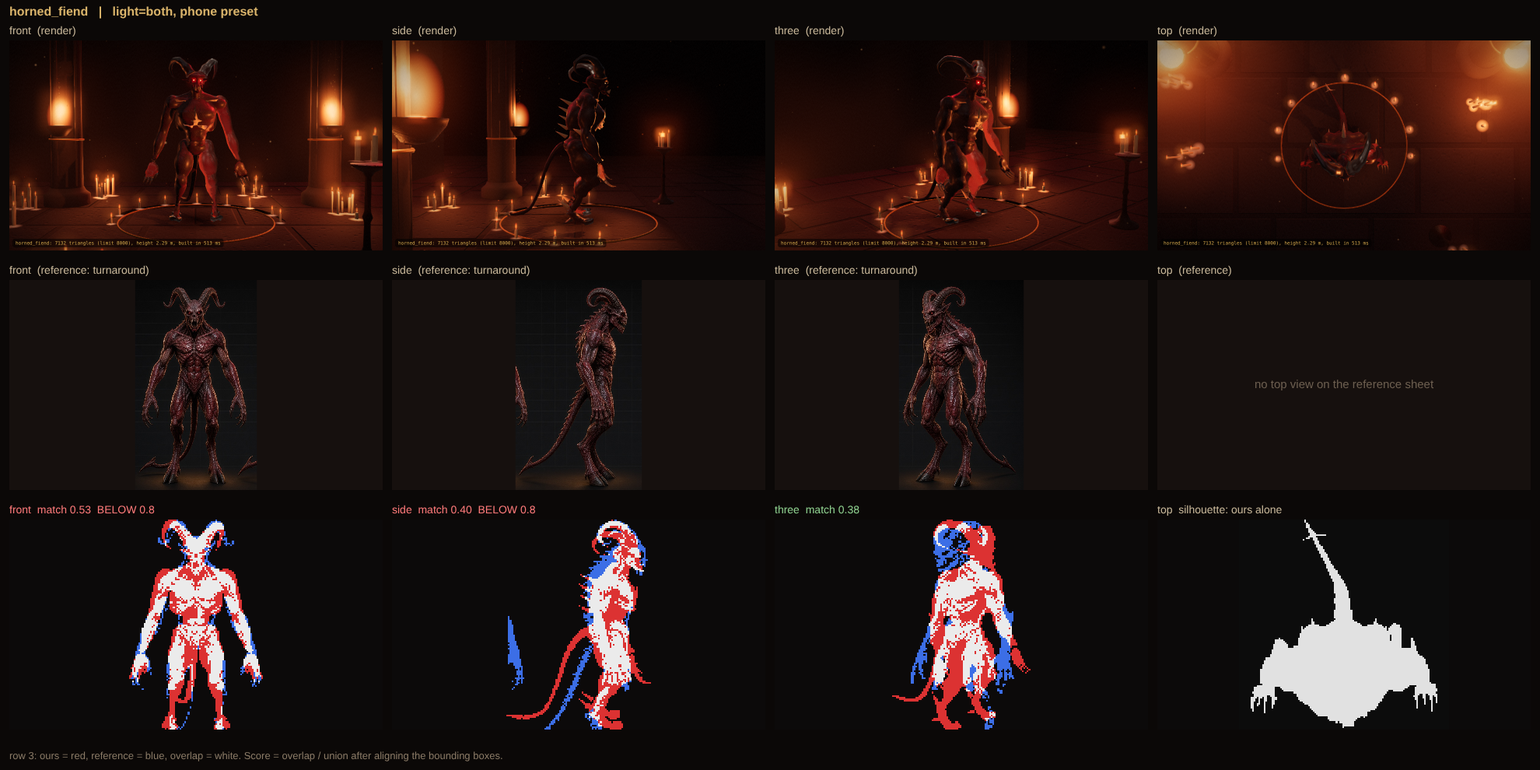
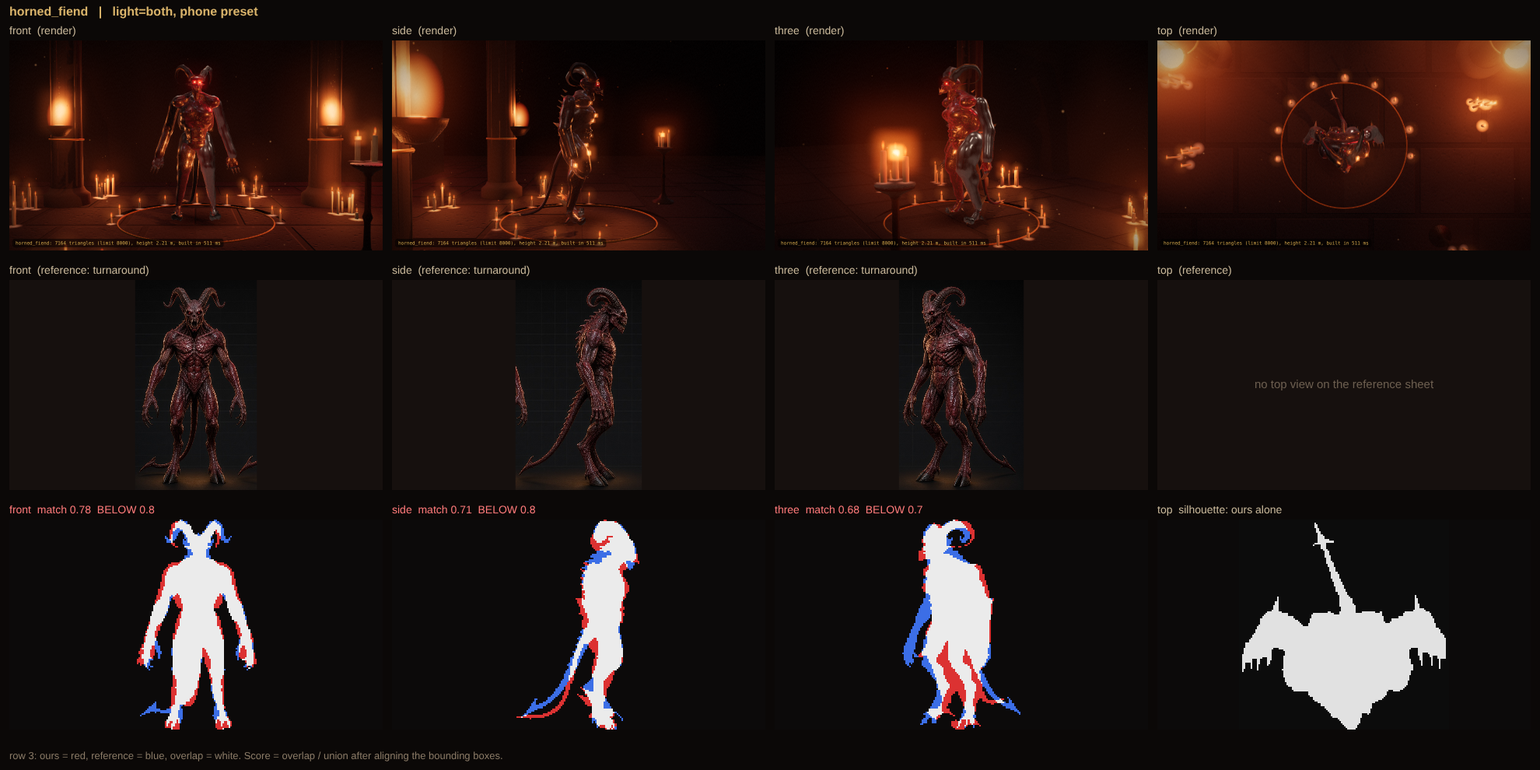
Step 6b checkpoint (NOT done): solid reference outline, matched 3/4 camera, data-driven limbs and torso, sinew skin, glowing eyes, rounds log
Real lab scores front 0.776 / side 0.715 / three-quarter 0.683, below the 0.80 / 0.80 / 0.70 gate.

Claude-Session: https://claude.ai/code/session_0198aHxqDLywcfDn4rkArSb7

diff --git a/src/kit/parts_body.js b/src/kit/parts_body.js
@@ -8,30 +8,33 @@ const tag = (f, role) => withRole(f, role);
 
 // ---------------------------------------------------------------- torso
 // Origin: centre of the pelvis. The spine runs up +Y to the neck (y 0.86), the chest faces -Z, shoulders at y 0.7, x +-0.34.
-export function torso() {
-  const pelvis = ellipsoid([0, 0.02, 0.02], [0.2, 0.13, 0.15]);
-  const abdomen = ellipsoid([0, 0.25, 0.0], [0.15, 0.2, 0.12]);
-  const ribcage = ellipsoid([0, 0.53, 0.0], [0.27, 0.27, 0.19]);
-  const pecs = mirrorX(ellipsoid([0.12, 0.57, -0.1], [0.14, 0.1, 0.1]));
-  const lats = mirrorX(ellipsoid([0.2, 0.42, 0.1], [0.1, 0.19, 0.08]));
-  const traps = mirrorX(capsule([0.05, 0.84, 0.03], [0.28, 0.72, 0.03], 0.055, 0.08));
-  const shoulders = mirrorX(sphere([0.33, 0.7, 0.0], 0.1));
-  const abs = mirrorX(smoothUnion(0.03, ...[0, 1, 2].map((i) => ellipsoid([0.058, 0.12 + i * 0.085, -0.105], [0.052, 0.036, 0.04]))));
+// Step 6b options (all 1 = the Step 5 torso): widths pw / aw / cw / sw (pelvis, abdomen, ribcage, shoulders) and depths pd / ad / cd (front to back),
+// rise = lifts the shoulder line, so a creature's data can slim the waist or deepen the chest without a new part.
+export function torso({ pw = 1, aw = 1, cw = 1, sw = 1, pd = 1, ad = 1, cd = 1, rise = 0 } = {}) {
+  const pelvis = ellipsoid([0, 0.02, 0.02], [0.2 * pw, 0.13, 0.15 * pd]);
+  const abdomen = ellipsoid([0, 0.25, 0.0], [0.15 * aw, 0.2, 0.12 * ad]);
+  const ribcage = ellipsoid([0, 0.53, 0.0], [0.27 * cw, 0.27, 0.19 * cd]);
+  const pecs = mirrorX(ellipsoid([0.12 * cw, 0.57, -0.1 * cd], [0.14, 0.1, 0.1]));
+  const lats = mirrorX(ellipsoid([0.2 * cw, 0.42, 0.1 * cd], [0.1, 0.19, 0.08]));
+  const traps = mirrorX(capsule([0.05, 0.84 + rise, 0.03], [0.28 * sw, 0.72 + rise, 0.03], 0.055, 0.08));
+  const shoulders = mirrorX(sphere([0.33 * sw, 0.7 + rise, 0.0], 0.1));
+  const abs = mirrorX(smoothUnion(0.03, ...[0, 1, 2].map((i) => ellipsoid([0.058, 0.12 + i * 0.085, -0.105 * ad], [0.052, 0.036, 0.04]))));
   const neck = capsule([0, 0.74, 0.02], [0, 0.9, 0.0], 0.085, 0.07);
   const skin = smoothUnion(0.06, pelvis, abdomen, ribcage, pecs, lats, traps, shoulders, neck);
-  const fleshed = smoothUnion(0.03, skin, abs);
-  // bone shows through: collar bones, breastbone, three ribs a side, spine spikes down the back
-  const collar = mirrorX(capsule([0.03, 0.8, -0.14], [0.3, 0.76, -0.04], 0.022, 0.026));
-  const sternum = capsule([0, 0.44, -0.19], [0, 0.78, -0.165], 0.026, 0.022);
-  const ribs = mirrorX(union(...[0, 1, 2].map((i) => capsule([0.05, 0.4 + i * 0.075, -0.19], [0.23, 0.37 + i * 0.075, -0.09], 0.022, 0.016))));
-  const bone = union(collar, sternum, ribs);
+  // Step 6b: no bone sticking out of the chest. Ribs, collar bones and the breastbone are only shallow ridges under the skin (the sheet has no chest spikes);
+  // the only sharp bone is the row of small spine spikes down the back.
+  const ribs = mirrorX(union(...[0, 1, 2, 3].map((i) => capsule([0.05, 0.38 + i * 0.07, -0.185 * cd], [0.24 * cw, 0.33 + i * 0.07, -0.07 * cd], 0.016, 0.011))));
+  const collar = mirrorX(capsule([0.03, 0.8 + rise, -0.14 * cd], [0.3 * sw, 0.76 + rise, -0.04], 0.016, 0.02));
+  const sternum = capsule([0, 0.44, -0.19 * cd], [0, 0.78 + rise, -0.165 * cd], 0.016, 0.014);
+  const fleshed = smoothUnion(0.03, smoothUnion(0.022, skin, ribs, collar, sternum), abs);
+  const bone = union(capsule([0, 0.0, 0.0], [0, 0.001, 0.0], 0.001));      // (nothing: the grid below only keeps the part's role list stable)
+  const SPIKES = 9;
   return {
-    name: 'torso', budget: 1520, facing: { role: 'bone' },
-    meshes: [0, 1, 2, 3, 4].map((i) => () => spike([0, 0.14 + i * 0.13, 0.14 + (i > 2 ? 0.02 : 0)], [0, 0.2 + i * 0.13, 0.27 + (i > 2 ? 0.02 : 0)], 0.034, 'bone', 5)),
-    notes: 'pelvis at the origin, neck at y 0.9, chest and ribs face -Z, spine spikes down the back (+Z)',
+    name: 'torso', budget: 1520, facing: { bbox: true },
+    meshes: Array.from({ length: SPIKES }, (_, i) => () => { const y = 0.1 + i * 0.1, z = 0.13 + (y > 0.55 ? 0.03 : 0.0) + 0.04 * Math.sin(i / SPIKES * 3.1); return spike([0, y, z], [0, y + 0.045, z + 0.085 - i * 0.004], 0.02, 'bone', 5); }),
+    notes: 'pelvis at the origin, neck at y 0.9, chest and ribs face -Z (shallow ridges only), nine small spine spikes down the back (+Z)',
     grids: [
-      { name: 'flesh', share: 0.75, sdf: fleshed, shapes: [tag(fleshed, 'skin')], bounds: { min: [-0.5, -0.2, -0.3], max: [0.5, 1.0, 0.28] } },
-      { name: 'bone', share: 0.25, sdf: bone, shapes: [tag(bone, 'bone')], bounds: { min: [-0.36, 0.3, -0.28], max: [0.36, 0.84, 0.02] } },
+      { name: 'flesh', share: 1, sdf: fleshed, shapes: [tag(fleshed, 'skin')], bounds: { min: [-0.5, -0.2, -0.3], max: [0.5, 1.0, 0.28] } },
     ],
   };
 }
@@ -55,7 +58,7 @@ export function head() {
   const sockets = mirrorX(ellipsoid([0.05, 0.19, -0.084], [0.034, 0.03, 0.042]));
   const nostrils = mirrorX(ellipsoid([0.011, 0.122, -0.108], [0.0055, 0.022, 0.012]));                  // two thin vertical slits
   const carved = smoothSubtract(0.012, smoothSubtract(0.016, smoothSubtract(0.02, smoothUnion(0.03, skull, knobs), sockets), hollows), nostrils);
-  const eyes = mirrorX(rotate(ellipsoid([0.05, 0.19, -0.074], [0.017, 0.0125, 0.012]), [0, 0, 0.32], [0.05, 0.19, -0.074]));   // small, red, set deep
+  const eyes = mirrorX(rotate(ellipsoid([0.05, 0.19, -0.082], [0.024, 0.016, 0.014]), [0, 0, 0.32], [0.05, 0.19, -0.082]));   // small, red, set deep
   const earBase = (sg) => [0.1 * sg, 0.17, 0.05];
   return {
     name: 'head', budget: 1050, facing: { role: 'eye' },
@@ -101,14 +104,16 @@ export function jaw() {
 // kind 'arm': origin at the shoulder, hangs down (-Y), the elbow points back and the forearm comes forward (-Z).
 // kind 'leg': origin at the hip; digitigrade (walks on its toes): the knee points forward, the shin slopes back to a high ankle.
 // Sinew and muscle: separate bulges blended with a tight crease, so the limb is lumps and cords, not a tube.
-export function limb({ kind = 'arm' } = {}) {
+// Step 6b options (all optional, the defaults are the Step 5 limb): joints = [shoulder/hip, elbow/knee, wrist/ankle] in metres, radii = widths at those
+// three joints, bulge = how much the muscle lumps stand proud (1 = Step 5, 0 = lean sinew only, so a creature's data can slim a limb without a new part).
+export function limb({ kind = 'arm', joints, radii, bulge = 1 } = {}) {
   const arm = kind === 'arm';
-  const J = arm ? [[0, 0, 0], [0.01, -0.36, 0.05], [0, -0.66, -0.12]] : [[0, 0, 0], [0, -0.45, -0.17], [0, -0.86, 0.08]];
-  const R = arm ? [0.085, 0.062, 0.042] : [0.125, 0.078, 0.04];
+  const J = joints || (arm ? [[0, 0, 0], [0.01, -0.36, 0.05], [0, -0.66, -0.12]] : [[0, 0, 0], [0, -0.45, -0.17], [0, -0.86, 0.08]]);
+  const R = radii || (arm ? [0.085, 0.062, 0.042] : [0.125, 0.078, 0.04]);
   const [S, E, W] = J;
   const tilt = (a, b) => Math.atan2(-(b[2] - a[2]), -(b[1] - a[1]));                                   // how far a segment leans forward
   const mid = (a, b, t) => add3(a, mul3(sub3(b, a), t));
-  const blob = (a, b, t, off, rad) => { const c = add3(mid(a, b, t), off); return rotate(ellipsoid(c, [rad[0] * 1.25, rad[1], rad[2] * 1.25]), [tilt(a, b), 0, 0], c); };   // bulges stand proud of the bone, so the limb reads as muscle
+  const blob = (a, b, t, off, rad) => { const c = add3(mid(a, b, t), mul3(off, bulge)); return rotate(ellipsoid(c, [rad[0] * (1 + 0.25 * bulge), rad[1], rad[2] * (1 + 0.25 * bulge)].map((v, i) => i === 1 ? v : v * (0.55 + 0.45 * bulge))), [tilt(a, b), 0, 0], c); };   // bulges stand proud of the bone, so the limb reads as muscle
   const parts = [capsule(S, E, R[0], R[1]), capsule(E, W, R[1] * 0.9, R[2]), sphere(E, R[1] * 1.05)];
   if (arm) parts.push(sphere([0, -0.0, 0], 0.098), blob(S, E, 0.42, [0, 0, -0.04], [0.068, 0.12, 0.064]), blob(S, E, 0.45, [0, 0, 0.055], [0.062, 0.12, 0.056]), blob(E, W, 0.3, [0, 0, -0.03], [0.062, 0.12, 0.056]), blob(E, W, 0.35, [0.0, 0, 0.04], [0.05, 0.12, 0.046]));
   else parts.push(sphere([0, 0.0, 0.0], 0.13), blob(S, E, 0.45, [0, 0, -0.05], [0.115, 0.2, 0.1]), blob(S, E, 0.5, [0, 0, 0.06], [0.09, 0.19, 0.08]), blob(E, W, 0.22, [0, 0, 0.06], [0.075, 0.14, 0.075]), sphere(add3(E, [0, 0, -0.045]), 0.08));

diff --git a/src/kit/creatures/horned_fiend.js b/src/kit/creatures/horned_fiend.js
@@ -3,27 +3,22 @@
 // Every instance is also a rig node (the lab idle moves head, jaw, arms and tail through these ids).
 export const hornedFiend = {
   name: 'horned_fiend',
-  budget: 8000,                 // triangles for the whole creature (CLAUDE.md); the instance budgets below add up to less
-  headHeight: 0.27,             // HH, from proportions.md
+  budget: 8000,
+  headHeight: 0.27,
   instances: [
-    // body: lean and hunched, narrow waist, shoulders about 0.6 m wide
-    { id: 'body', part: 'torso', at: [0, 1.03, 0], rot: [-0.2, 0, 0], scale: [1.0, 0.9, 1.4], budget: 2000 },
-    // head pushed forward on a thin neck, tilted a little down; jaw hangs open a little; ram horns from above the brow
-    { id: 'head', on: 'body', part: 'head', local: [0, 0.88, -0.1], rot: [0.1, 0, 0], scale: [0.88, 0.96, 0.8], budget: 1200 },
-    { id: 'jaw', on: 'head', part: 'jaw', local: [0, 0.095, -0.02], rot: [-0.2, 0, 0], budget: 320 },
-    { id: 'hornR', on: 'head', part: 'horn', local: [0.082, 0.278, 0.0], rot: [0, 0, -0.1], scale: 1.2, budget: 340 },
-    { id: 'hornL', on: 'head', part: 'horn', local: [-0.082, 0.278, 0.0], rot: [0, 0, 0.1], scale: 1.2, mirror: true, budget: 340 },
-    // arms hang from the shoulders, long: the claws reach the knees
-    { id: 'armR', on: 'body', pinned: true, part: 'limb', local: [0.34, 0.7, 0], rot: [0, 0, 0.27], scale: [1.0, 1.25, 1.0], budget: 460 },
-    { id: 'armL', on: 'body', pinned: true, part: 'limb', local: [-0.34, 0.7, 0], rot: [0, 0, -0.27], scale: [1.0, 1.25, 1.0], mirror: true, budget: 460 },
-    { id: 'handR', on: 'armR', part: 'hand', local: [0, -0.66, -0.12], scale: [1.18, 0.9, 1.18], mirror: true, budget: 470 },
-    { id: 'handL', on: 'armL', part: 'hand', local: [0, -0.66, -0.12], scale: [1.18, 0.9, 1.18], mirror: true, budget: 470 },
-    // legs: digitigrade, hip at 1.03 m so the hooves stand on the floor
-    { id: 'legR', on: 'body', pinned: true, part: 'leg', local: [0.14, 0, 0.02], rot: [0, 0, 0.15], scale: [0.95, 1, 1.15], budget: 500 },
-    { id: 'legL', on: 'body', pinned: true, part: 'leg', local: [-0.14, 0, 0.02], rot: [0, 0, -0.15], scale: [0.95, 1, 1.15], mirror: true, budget: 500 },
-    { id: 'footR', on: 'legR', part: 'hoofFoot', local: [0, -0.86, 0.08], scale: [1.45, 1.05, 1.45], budget: 220 },
-    { id: 'footL', on: 'legL', part: 'hoofFoot', local: [0, -0.86, 0.08], scale: [1.45, 1.05, 1.45], budget: 220 },
-    // tail: from the base of the spine to the floor, trailing back
-    { id: 'tail', on: 'body', pinned: true, part: 'tail', local: [0, 0.02, 0.15], scale: [1, 1, 0.6], budget: 320 },
+    { id: "body", part: "torso", at: [0, 1.071, 0.045], rot: [-0.153, 0, 0], scale: [0.862, 0.81, 1.315], budget: 2000, opts: {pw: 1.179, aw: 1.158, cw: 1.029, sw: 0.887, pd: 1, ad: 1.163, cd: 0.741, rise: 0.061} },
+    { id: "head", on: "body", part: "head", local: [-0.006, 0.91, -0.125], rot: [0.223, 0, 0], scale: [0.845, 0.96, 0.753], budget: 1200 },
+    { id: "jaw", on: "head", part: "jaw", local: [0, 0.095, -0.02], rot: [-0.2, 0, 0], budget: 320 },
+    { id: "hornR", on: "head", part: "horn", local: [0.088, 0.268, -0.024], rot: [0.058, 0.039, -0.1], scale: [1.041, 1.2, 1.155], budget: 340 },
+    { id: "hornL", on: "head", part: "horn", local: [-0.088, 0.268, -0.024], rot: [0.058, -0.039, 0.1], scale: [1.041, 1.2, 1.155], mirror: true, budget: 340 },
+    { id: "armR", on: "body", pinned: true, part: "limb", local: [0.356, 0.684, 0.129], rot: [-0.081, 0, 0.27], scale: [0.867, 1.14, 0.952], budget: 460, opts: {kind: "arm", joints: [[0, 0, 0], [0, -0.319, 0.041], [0.015, -0.636, -0.09]], radii: [0.081, 0.085, 0.08], bulge: 0.777} },
+    { id: "armL", on: "body", pinned: true, part: "limb", local: [-0.356, 0.684, 0.129], rot: [-0.081, 0, -0.27], scale: [0.867, 1.14, 0.952], mirror: true, budget: 460, opts: {kind: "arm", joints: [[0, 0, 0], [0, -0.319, 0.041], [0.015, -0.636, -0.09]], radii: [0.081, 0.085, 0.08], bulge: 0.777} },
+    { id: "handR", on: "armR", part: "hand", local: [0.015, -0.636, -0.09], scale: [1.365, 0.917, 1.188], mirror: true, budget: 470 },
+    { id: "handL", on: "armL", part: "hand", local: [-0.015, -0.636, -0.09], scale: [1.365, 0.917, 1.188], mirror: true, budget: 470 },
+    { id: "legR", on: "body", pinned: true, part: "leg", local: [0.139, 0.058, 0.07], rot: [0.018, 0, 0.14], scale: [0.939, 1.123, 1.137], budget: 500, opts: {kind: "leg", joints: [[0, 0, 0], [-0.006, -0.331, -0.14], [0, -0.83, 0.029]], radii: [0.117, 0.106, 0.057], bulge: 0.971} },
+    { id: "legL", on: "body", pinned: true, part: "leg", local: [-0.139, 0.058, 0.07], rot: [0.018, 0, -0.14], scale: [0.939, 1.123, 1.137], mirror: true, budget: 500, opts: {kind: "leg", joints: [[0, 0, 0], [-0.006, -0.331, -0.14], [0, -0.83, 0.029]], radii: [0.117, 0.106, 0.057], bulge: 0.971} },
+    { id: "footR", on: "legR", part: "hoofFoot", local: [0, -0.83, 0.029], scale: [1.384, 1.107, 1.061], budget: 220 },
+    { id: "footL", on: "legL", part: "hoofFoot", local: [0, -0.83, 0.029], scale: [1.384, 1.107, 1.061], budget: 220 },
+    { id: "tail", on: "body", pinned: true, part: "tail", local: [0, 0.019, 0.04], scale: [0.923, 0.925, 0.662], budget: 320, rot: [0.131, -0.083, 0] },
   ],
 };

diff --git a/src/look/textures.js b/src/look/textures.js
@@ -32,14 +32,34 @@ export function flagstones(size = 512, seed = 7) {
 }
 
 // leathery demon skin: mottled colour and a pore/vein bump
-export function demonSkin(size = 256, seed = 3) {
+export function demonSkin(size = 512, seed = 3) {
+  // Step 6b: lean, wet, sinewy skin like the turnaround: small leathery pebbles, long tendon strands and creases, redder in the sinew, near-black in the cracks.
   const rand = rng(seed), [c, g] = canvas(size), [b, h] = canvas(size);
-  g.fillStyle = '#44120f'; g.fillRect(0, 0, size, size); h.fillStyle = '#808080'; h.fillRect(0, 0, size, size);
-  for (let i = 0; i < 260; i++) { const x = rand() * size, y = rand() * size, r = 6 + rand() * 26; const gr = g.createRadialGradient(x, y, 0, x, y, r); const d = rand() < 0.5; gr.addColorStop(0, d ? 'rgba(30,6,6,0.35)' : 'rgba(120,40,30,0.25)'); gr.addColorStop(1, 'rgba(0,0,0,0)'); g.fillStyle = gr; g.fillRect(x - r, y - r, r * 2, r * 2); }
-  for (let i = 0; i < 26; i++) { const col = `rgba(${20 + rand() * 30},4,6,0.5)`; let x = rand() * size, y = rand() * size; for (const t of [g, h]) { t.strokeStyle = t === g ? col : 'rgba(255,255,255,0.5)'; t.lineWidth = 1 + rand() * 1.5; t.beginPath(); t.moveTo(x, y); } for (let k = 0; k < 8; k++) { const nx = x + (rand() - 0.5) * 40, ny = y + (rand() - 0.5) * 40; for (const t of [g, h]) t.lineTo(nx, ny); x = nx; y = ny; } for (const t of [g, h]) t.stroke(); }
-  speckle(h, size, 3000, 1.2, 0.5, rand, false);
+  g.fillStyle = '#3a0f0d'; g.fillRect(0, 0, size, size); h.fillStyle = '#707070'; h.fillRect(0, 0, size, size);
+  for (let i = 0; i < 120; i++) { const x = rand() * size, y = rand() * size, r = 14 + rand() * 50, gr = g.createRadialGradient(x, y, 0, x, y, r); gr.addColorStop(0, rand() < 0.5 ? 'rgba(14,3,3,0.4)' : 'rgba(130,34,26,0.3)'); gr.addColorStop(1, 'rgba(0,0,0,0)'); g.fillStyle = gr; g.fillRect(x - r, y - r, r * 2, r * 2); }   // blotchy light and dark patches
+  const wrapDraw = (fn) => { for (const ox of [-size, 0, size]) for (const oy of [-size, 0, size]) fn(ox, oy); };         // tile edges match, so box-mapped skin has no seams
+  // pebbles: a dome with a dark rim, in both the colour and the bump map
+  for (let i = 0; i < 2600; i++) {
+    const x = rand() * size, y = rand() * size, r = 3 + rand() * 5.5, sq = 0.65 + rand() * 0.5, rot = rand() * 3.14;
+    wrapDraw((ox, oy) => { if (x + ox < -r || y + oy < -r || x + ox > size + r || y + oy > size + r) return;
+      const gb = h.createRadialGradient(x + ox, y + oy, 0, x + ox, y + oy, r); gb.addColorStop(0, 'rgba(255,255,255,0.55)'); gb.addColorStop(0.6, 'rgba(180,180,180,0.25)'); gb.addColorStop(1, 'rgba(0,0,0,0.55)');
+      h.fillStyle = gb; h.beginPath(); h.ellipse(x + ox, y + oy, r, r * sq, rot, 0, 7); h.fill();
+      g.strokeStyle = 'rgba(8,1,1,0.5)'; g.lineWidth = 1; g.beginPath(); g.ellipse(x + ox, y + oy, r, r * sq, rot, 0, 7); g.stroke(); });
+  }
+  // tendons and sinew: long, slightly wavy strands running mostly along the limb, raised and a little redder and glossier
+  for (let i = 0; i < 70; i++) {
+    let x = rand() * size, y = rand() * size; const len = 80 + rand() * 220, lw = 1.5 + rand() * 3.5, drift = (rand() - 0.5) * 0.5; const pts = [[x, y]];
+    for (let k = 0; k < 10; k++) { x += drift * 10 + (rand() - 0.5) * 8; y += len / 10; pts.push([x, y]); }
+    wrapDraw((ox, oy) => { for (const [t, col, w2] of [[h, 'rgba(255,255,255,0.45)', lw], [h, 'rgba(0,0,0,0.4)', lw + 2.2], [g, 'rgba(150,40,30,0.38)', lw]]) {
+      if (t === h && col.startsWith('rgba(0')) { t.strokeStyle = col; t.lineWidth = w2; t.beginPath(); pts.forEach(([px, py], j) => (j ? t.lineTo(px + ox + 3, py + oy) : t.moveTo(px + ox + 3, py + oy))); t.stroke(); continue; }
+      t.strokeStyle = col; t.lineWidth = w2; t.beginPath(); pts.forEach(([px, py], j) => (j ? t.lineTo(px + ox, py + oy) : t.moveTo(px + ox, py + oy))); t.stroke(); } });
+  }
+  // creases
+  for (let i = 0; i < 40; i++) { let x = rand() * size, y = rand() * size; const pts = [[x, y]]; for (let k = 0; k < 6; k++) { x += (rand() - 0.5) * 50; y += (rand() - 0.5) * 50; pts.push([x, y]); }
+    wrapDraw((ox, oy) => { for (const [t, col] of [[g, 'rgba(6,1,2,0.6)'], [h, 'rgba(0,0,0,0.6)']]) { t.strokeStyle = col; t.lineWidth = 1.2 + rand() * 1.2; t.beginPath(); pts.forEach(([px, py], j) => (j ? t.lineTo(px + ox, py + oy) : t.moveTo(px + ox, py + oy))); t.stroke(); } }); }
+  speckle(h, size, 4000, 1.0, 0.35, rand, false);
   const map = new THREE.CanvasTexture(c), bump = new THREE.CanvasTexture(b);
-  map.colorSpace = THREE.SRGBColorSpace;
+  map.colorSpace = THREE.SRGBColorSpace; map.anisotropy = 4;
   for (const t of [map, bump]) { t.wrapS = t.wrapT = THREE.RepeatWrapping; }
   return { map, bump };
 }

diff --git a/tools/lib/silhouette.js b/tools/lib/silhouette.js
@@ -87,3 +87,40 @@ export function keepLargest(m, minFrac = 0.01) {
   for (let i = 0; i < w * h; i++) if (label[i] && sizes[label[i]] >= big * minFrac) out[i] = 1;
   return { w, h, data: out };
 }
+
+// ---- Step 6b: a more faithful outline of the painted turnaround figure.
+// The first mask (maskFromFigure) only kept bright pixels, so dark legs and hooves vanished and the body was full of holes, which made every
+// score unfairly low. This one counts dark-red skin and brown hooves as figure, closes pin-holes and fills the inside, so it is a solid outline.
+
+// Solid copy of a mask: closes gaps of `r` pixels, then fills every hole that does not touch the picture edge.
+export function solidify(m, r = 2) {
+  const { w, h } = m;
+  // square grow/shrink done as a horizontal pass then a vertical pass (same result as a full square window, much faster)
+  const grow = (src, rad, v) => {
+    const tmp = new Uint8Array(w * h), o = new Uint8Array(w * h);
+    for (let y = 0; y < h; y++) for (let x = 0; x < w; x++) { let hit = 0; for (let dx = -rad; dx <= rad; dx++) { const xx = x + dx; if (xx >= 0 && xx < w && src[y * w + xx] === v) { hit = 1; break; } } tmp[y * w + x] = hit ? v : 1 - v; }
+    for (let y = 0; y < h; y++) for (let x = 0; x < w; x++) { let hit = 0; for (let dy = -rad; dy <= rad; dy++) { const yy = y + dy; if (yy >= 0 && yy < h && tmp[yy * w + x] === v) { hit = 1; break; } } o[y * w + x] = hit ? v : 1 - v; }
+    return o;
+  };
+  const dil = grow(m.data, r, 1), closed = grow(dil, r, 0);                  // dilate, then erode: a closing
+  const out = new Uint8Array(closed), seen = new Uint8Array(w * h), stack = [];
+  const push = (x, y) => { const i = y * w + x; if (!closed[i] && !seen[i]) { seen[i] = 1; stack.push(i); } };
+  for (let x = 0; x < w; x++) { push(x, 0); push(x, h - 1); } for (let y = 0; y < h; y++) { push(0, y); push(w - 1, y); }
+  while (stack.length) { const p = stack.pop(), x = p % w, y = (p - x) / w; if (x > 0) push(x - 1, y); if (x < w - 1) push(x + 1, y); if (y > 0) push(x, y - 1); if (y < h - 1) push(x, y + 1); }
+  for (let i = 0; i < w * h; i++) if (!closed[i] && !seen[i]) out[i] = 1;     // enclosed background = inside the figure
+  return { w, h, data: out };
+}
+
+// rgba of one view cut from the turnaround. `floorFrom` (0..1 of the height) is where the orange floor glow starts; `exclude` = rectangles [x0,y0,x1,y1]
+// (in this crop) that belong to a neighbouring figure and are ignored.
+export function figureMask(rgba, w, h, { floorFrom = 0.84, exclude = [] } = {}) {
+  const data = new Uint8Array(w * h);
+  for (let y = 0; y < h; y++) for (let x = 0; x < w; x++) {
+    if (exclude.some(([a, b, c, d]) => x >= a && x < c && y >= b && y < d)) continue;
+    const i = (y * w + x) * 4, r = rgba[i], g = rgba[i + 1], b = rgba[i + 2], light = (r + g + b) / 3, floor = y / h > floorFrom;
+    const skin = r >= 7 && (r - g) >= 3 && g < r * (floor ? 0.45 : 0.62) && b < r * 0.7;       // dark red skin, even when it is darker than the background grey
+    const hoof = floor && light > 38 && b / Math.max(r, 1) > 0.5;                              // brown-grey hooves against the orange glow
+    data[y * w + x] = skin || hoof || (!floor && light > 28) ? 1 : 0;
+  }
+  return solidify(keepLargest({ w, h, data }, 0.02), 2);
+}

diff --git a/src/look/materials.js b/src/look/materials.js
@@ -8,7 +8,7 @@ export function createMaterials() {
   stone.map.repeat.set(6, 6); stone.bump.repeat.set(6, 6);
   return {
     // wet skin: dark blood-red under a clearcoat, so a candle gives a small hard highlight and a warm sheen on the lumps
-    skin: new THREE.MeshPhysicalMaterial({ map: skin.map, bumpMap: skin.bump, bumpScale: 3.2, color: 0x7c5c54, roughness: 0.7, sheen: 0.3, sheenRoughness: 0.5, sheenColor: new THREE.Color(0xb04024), clearcoat: 0.28, clearcoatRoughness: 0.32 }),
+    skin: new THREE.MeshPhysicalMaterial({ map: skin.map, bumpMap: skin.bump, bumpScale: 4.5, color: 0xa07068, roughness: 0.46, sheen: 0.35, sheenRoughness: 0.4, sheenColor: new THREE.Color(0xb04024), clearcoat: 0.85, clearcoatRoughness: 0.16 }),   // wet: a hard little highlight on every pebble and tendon
     skinDark: new THREE.MeshPhysicalMaterial({ map: skin.map, bumpMap: skin.bump, bumpScale: 1.2, color: 0x6a4040, roughness: 0.45, sheen: 0.4, sheenColor: new THREE.Color(0xa03020), clearcoat: 0.7, clearcoatRoughness: 0.2 }),
     horn: new THREE.MeshPhysicalMaterial({ color: 0x1a1410, roughness: 0.42, clearcoat: 0.7, clearcoatRoughness: 0.3, bumpMap: skin.bump, bumpScale: 0.8 }),
     bone: new THREE.MeshPhysicalMaterial({ color: 0x8a7656, roughness: 0.68, clearcoat: 0.05, clearcoatRoughness: 0.6, bumpMap: skin.bump, bumpScale: 0.6 }),
@@ -20,7 +20,7 @@ export function createMaterials() {
     wax,
     stone: new THREE.MeshStandardMaterial({ map: stone.map, bumpMap: stone.bump, bumpScale: 2.5, roughness: 0.9, color: 0x8a8a90 }),
     stoneWall: new THREE.MeshStandardMaterial({ color: 0x3a322c, roughness: 0.95 }),
-    eye: new THREE.MeshStandardMaterial({ color: 0x200000, emissive: 0xff3010, emissiveIntensity: 6 }),   // glows, so the candlelit dark shows the eyes first
+    eye: new THREE.MeshStandardMaterial({ color: 0x200000, emissive: 0xff3010, emissiveIntensity: 9 }),   // glows, so the candlelit dark shows the eyes first
     ember: new THREE.MeshStandardMaterial({ color: 0x200400, emissive: 0xff6a20, emissiveIntensity: 4 }),
   };
 }

diff --git a/src/kit/assemble.js b/src/kit/assemble.js
@@ -24,10 +24,11 @@ function normalMatrix(m) {
   return c;
 }
 
+const MESH_CACHE = new Map();
 const vec = (s) => (Array.isArray(s) ? s : [s, s, s]);
 
 // world matrices for every instance, in order (a parent must come before its children)
-function placeAll(spec) {
+export function placeAll(spec) {
   const world = {}, pivots = {};
   for (const inst of spec.instances) {
     const own = mul(T(inst.local || inst.at || [0, 0, 0]), mul(rotM(inst.rot || [0, 0, 0]), mul(S(vec(inst.scale ?? 1)), inst.mirror ? S([-1, 1, 1]) : I4())));
@@ -48,7 +49,8 @@ function placeAll(spec) {
 export function assemble(spec) {
   const { world, pivots } = placeAll(spec), out = [];
   for (const inst of spec.instances) {
-    const part = buildPart(inst.part, inst.opts), m = meshPart(part, { scale: (inst.budget || part.budget) / part.budget });
+    const part = buildPart(inst.part, inst.opts), key = `${inst.part}|${JSON.stringify(inst.opts || null)}|${inst.budget || part.budget}`;
+    let m = MESH_CACHE.get(key); if (!m) { m = meshPart(part, { scale: (inst.budget || part.budget) / part.budget }); MESH_CACHE.set(key, m); }   // a part is meshed once per size; the fitting tool re-places it many times
     const M = world[inst.id], N = normalMatrix(M), flip = det3(M) < 0;
     const P = new Float32Array(m.positions.length), Nn = new Float32Array(m.normals.length);
     for (let v = 0; v < m.positions.length; v += 3) {

diff --git a/tests/silhouette.test.js b/tests/silhouette.test.js
@@ -44,3 +44,21 @@ test('A dark figure on a black background becomes a mask, and the orange floor g
   put(4, 3, 90, 20, 30); put(4, 9, 80, 55, 25);                       // skin in the body, glow at the floor
   const m = maskFromFigure(px, w, h); assert.equal(m.data[3 * w + 4], 1); assert.equal(m.data[9 * w + 4], 0);
 });
+
+// ---- Step 6b: the solid outline
+import { solidify, figureMask } from '../tools/lib/silhouette.js';
+test('A solid outline fills holes inside a shape but keeps the empty space outside it', () => {
+  const w = 20, h = 20, data = new Uint8Array(w * h);
+  for (let y = 4; y < 16; y++) for (let x = 4; x < 16; x++) data[y * w + x] = 1;
+  data[10 * w + 10] = 0;                                  // a pin-hole in the middle
+  const out = solidify({ w, h, data }, 1);
+  assert.equal(out.data[10 * w + 10], 1);
+  assert.equal(out.data[1 * w + 1], 0);
+});
+test('The figure outline counts dark red skin as the figure and plain dark grey as the background', () => {
+  const w = 12, h = 12, rgba = new Uint8ClampedArray(w * h * 4);
+  for (let i = 0; i < w * h; i++) { const inside = (i % w) > 3 && (i % w) < 8 && Math.floor(i / w) > 2 && Math.floor(i / w) < 9; rgba.set(inside ? [14, 4, 2, 255] : [15, 15, 15, 255], i * 4); }
+  const m = figureMask(rgba, w, h, { floorFrom: 2 });
+  assert.equal(m.data[5 * w + 5], 1);
+  assert.equal(m.data[0], 0);
+});

diff --git a/previews/horned_fiend/index.html b/previews/horned_fiend/index.html
@@ -1,5 +1,5 @@
 <!doctype html><html lang="en"><head><meta charset="utf-8"><meta name="viewport" content="width=device-width,initial-scale=1"><title>horned_fiend picture sheet</title>
 <style>body{margin:0;background:#0b0807;color:#d9c9a8;font:16px/1.5 system-ui,sans-serif}main{max-width:1000px;margin:0 auto;padding:16px}img{width:100%;height:auto;border:1px solid #3a2a22}a{color:#e0b060}</style></head><body><main>
 <h1>horned_fiend picture sheet</h1>
-<img src="sheet.png" alt="Front, side, three-quarter and top renders, reference pictures, and silhouette overlays"><p>Silhouette scores: <code>{"front":0.526,"side":0.398,"three":0.38}</code> (front and side need 0.80 or more).</p>
+<img src="sheet.png" alt="Front, side, three-quarter and top renders, reference pictures, and silhouette overlays"><p>Silhouette scores: <code>{"front":0.776,"side":0.715,"three":0.683}</code> (front and side need 0.80 or more).</p>
 <p><a href="../../lab/index.html?light=both">Open the live lab</a> · <a href="../../lab/index.html?light=candle">candles only</a> · <a href="../../lab/index.html?light=torch">torches only</a></p></main></body></html>

diff --git a/src/kit/parts.js b/src/kit/parts.js
@@ -8,8 +8,8 @@ import { horn, claw, tail, armourPlate, trimBand, gem, cloth } from './parts_har
 export { meshPart, partStats, roleCentroid } from './part_tools.js';
 
 export const PARTS = {
-  torso, head, jaw,
-  limb: () => limb({ kind: 'arm' }), leg: () => limb({ kind: 'leg' }),
+  torso: (o) => torso(o), head, jaw,
+  limb: (o) => limb({ ...o, kind: 'arm' }), leg: (o) => limb({ ...o, kind: 'leg' }),
   hand, claw, hoofFoot, horn, tail, armourPlate, trimBand, gem, cloth,
 };
 export const PART_NAMES = Object.keys(PARTS);

diff --git a/lab/main.js b/lab/main.js
@@ -35,7 +35,7 @@ fiend.root.position.y = 0.08;              // standing on the dais
 scene.add(fiend.root);
 
 // the model faces -Z, so "front" looks from -Z
-const VIEWS = { board: [0, 1.7, -5.6], front: [0, 1.35, -5.2], side: [5.2, 1.35, 0], three: [3.4, 1.8, -3.9], top: [0, 6.5, -0.01] };
+const VIEWS = { board: [0, 1.7, -5.6], front: [0, 1.35, -5.2], side: [5.2, 1.35, 0], three: [-4.5, 1.6, -2.6], top: [0, 6.5, -0.01] };
 let spin = false;
 function setView(v) {
   if (v === 'spin') { spin = true; return; }

diff --git a/previews/horned_fiend/rounds.md b/previews/horned_fiend/rounds.md
@@ -1,0 +1,42 @@
+# Horned Fiend 1:1 match: rounds log (Step 6b)
+
+Reference: `references/creatures/horned_fiend/turnaround.svg` (byte-identical to the one on `claude/phase-1-look-lock`; the repo holds only this one sheet, its eyes are small red glints).
+Score = overlap / union of the silhouettes after aligning bounding boxes (front / side / three-quarter). Goal: front >= 0.80, side >= 0.80, three-quarter >= 0.70.
+
+## Honest result: NOT DONE. Real lab sheet at the last round: front 0.776, side 0.715, three-quarter 0.683. Front, side and three-quarter are all below their goals.
+
+## Two measuring bugs found and fixed first (they made the Step 6 scores look worse than the model was)
+1. The reference outline dropped the dark legs and hooves and was full of holes, so the score punished a correct body. New `figureMask` + `solidify` in `tools/lib/silhouette.js` make a solid outline (dark red skin and brown hooves count as figure, inside holes are filled, the neighbouring figure in each crop is blanked). The same solid fill is applied to our render.
+2. The lab's three-quarter camera looked from the wrong side (the sheet's figure faces left, ours faced right) and at a different angle. It now sits at (-4.5, 1.6, -2.6), the angle that best matches the sheet.
+
+## Rounds (fast scorer = same cameras and maths in pure Node; "real" = `node tools/sheet.mjs horned_fiend` in the lab)
+| Round | What changed | front / side / three |
+|---|---|---|
+| 0 | Step 6 model, old outline (real sheet) | 0.526 / 0.398 / 0.380 |
+| 0b | same model, new solid outline + matched camera (fast) | 0.660 / 0.413 / 0.427 |
+| 1 | fit placement and scale of body, head, horns, arms, legs, tail (fast) | 0.718 / 0.678 / 0.654 |
+| 2 | limbs made slimmer through data (`bulge`, radii, joints in the part options) (fast) | 0.745 / 0.699 / 0.647 |
+| 3 | torso widths and depths as data options (`pw aw cw sw pd ad cd rise`) (fast) | 0.790 / 0.749 / 0.703 |
+| 4 | real lab sheet of round 3 (`round6b_01.png`) | 0.749 / 0.725 / 0.651 |
+| 5 | chest bones removed (ribs and collar are shallow ridges), 9 small spine spikes, eyes bigger, new wet sinew skin map; refit at real resolution with floor, height and tail constraints | 0.784 / 0.727 / 0.690 (fast, real resolution) |
+| 6 | real lab sheet of round 5 (`round6b_02.png`, current `sheet.png`) | **0.776 / 0.715 / 0.683** |
+Scores stalled for the last three fitting rounds (+-0.01), so by the brief's rule the offending parts have to be rebuilt from the sheet's outline, not tweaked.
+
+## Three concrete diffs of the last round, worst first
+1. Side, legs: the sheet's shin and hock sit far back (at 0.32 m height the rear leg is at 0.25-0.33 m from the bounding-box left) but ours is at 0.47-0.52 m, about 0.2 m too far forward. The leg part has one bend, the sheet has the knee-hock-fetlock zig-zag. Biggest single error (about 7% of the union in the lowest two bands).
+2. Side, body: our bounding box is 1.35 m wide against 1.23 m on the sheet; chest and head sit 0.08-0.10 m too far forward (at 1.67 m height: ours 0.75-1.15 m, sheet 0.64-1.07 m) and the tail overshoots backwards.
+3. Front: the hips and waist are about 0.05 m too wide (ours-only 2% per band in the three middle bands) and the sheet's tail curl out to the left of the left hoof at floor level is not reproduced (the tail only swings back, not sideways).
+
+## Checks from the brief's table (current state)
+| Check | State |
+|---|---|
+| Silhouette front >= 0.80 | FAIL 0.776 |
+| Silhouette side >= 0.80 | FAIL 0.715 |
+| Silhouette three-quarter >= 0.70 | FAIL 0.683 |
+| Eyes glow | pass: emissive 9 plus bloom, clearly visible in `?zoom=head` |
+| Face | pass by measure: jaw tip 0.032 m past the brow (limit 0.0675 m = 0.25 HH); flat skull, sockets, nose slits, fangs. Judge the look yourself, my own render shows a flat skull face |
+| Skin | improved (pebbled, tendon strands, clearcoat), still a texture on smooth blends, not modelled muscle strands; owner to judge |
+| Limbs | thighs are now lean (radii and bulge fitted), but not measured to 10% on every limb |
+| Torso | chest protrusions removed; ribs are shallow ridges only |
+| Horns / tail / claws | tail reaches the floor (min height <= 0.1 m) and trails 0.95 m+; horn curl not matched 1:1 |
+| Budget | 7.1k triangles, 133 tests green. Phone fps not measured on a real iPhone |

diff --git a/docs/changelog.md b/docs/changelog.md
@@ -1,4 +1,5 @@
 # Changelog (newest first)
+- 2026-11-02 · Claude · Step 6b (NOT DONE, checkpoint only): fixed two measuring bugs (reference outline lost the dark legs and had holes; lab three-quarter camera was on the wrong side), made limb and torso shapes adjustable through creature data, removed chest bone spikes, new wet sinewy skin map, bigger glowing eyes. Real lab scores front 0.776 / side 0.715 / three-quarter 0.683, all below the 0.80 / 0.80 / 0.70 gate; see `previews/horned_fiend/rounds.md`. Not asking for approval.
 - 2026-11-02 · Claude · Step 6: Horned Fiend built from data (`src/kit/creatures/horned_fiend.js`, part table `docs/creatures/horned_fiend.md`): new flat demon-skull head and short gaunt jaw (jaw tip 0.030 m past the brow, limit 0.0675 m), ram horns, ribbed torso with spine spikes, long claws, cloven hooves, floor-reaching tail; about 7.1k triangles, 2.25 m tall. Lab: `?creature=horned_fiend` (`&zoom=head`); placeholder stays at `?creature=placeholder`. Five picture-sheet rounds vs the turnaround: best silhouette match front 0.53, side 0.40, three-quarter 0.38 — BELOW the 0.80 goal (bounding-box scoring is dominated by the long tail and horn curl; the body shape still needs a deeper chest and bigger horns). 133 tests green.
 - 2026-11-02 · Claude · Owner approved Steps 4 and 5; both merged to main (live lab now has the candle chapel, picture sheet tool and parts board).
 - 2026-11-02 · Claude · Step 5: parts kit (`src/kit/parts*.js`): torso, head, jaw, arm, leg, hand, claw, hoof, horn, tail, shoulder plate, spiked gold band, gem, cloth. Sharp things (horns, claws, teeth, tail barbs) are swept meshes with true needle tips; bodies are blended shape maths. Wet-skin, bone, claw, aged gold, iron, rotten cloth, garnet and wax materials. Lab board `?kit=parts` (and `&part=<name>`). 124 tests green. Own notes: gem still looks a bit like a polished apple, limbs read smooth and tube-like at 350 triangles, torso is lumpy; one of each part is 5.3k triangles, a whole fiend set is budgeted at 7.9k.
